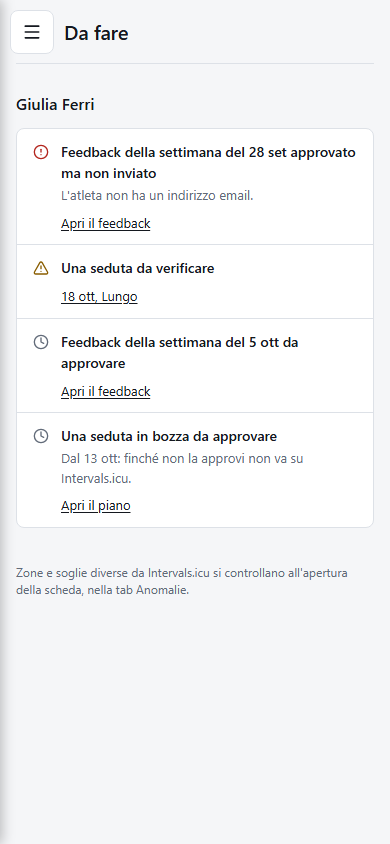
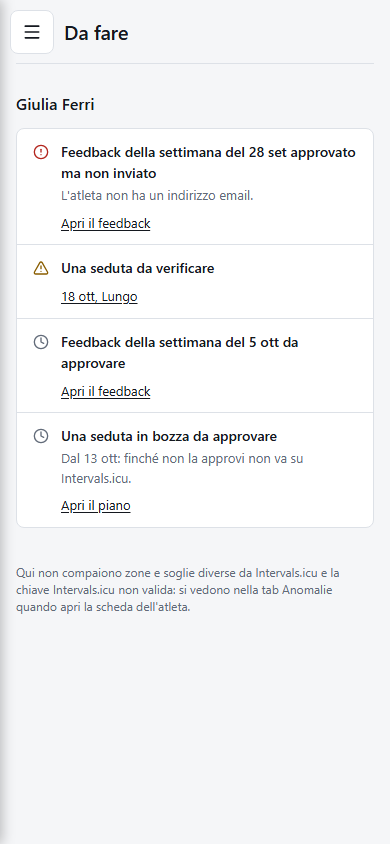
docs: sezioni sempre chiuse, «Da fare» in sidebar, scelte confermate dal coach

Changed region(s): [[0.0308, 0.6469, 0.8923, 0.7393]]

diff --git a/docs/design-ui.md b/docs/design-ui.md
@@ -78,7 +78,7 @@ Regole per chi modifica il layout:
 - **PageSection** (`PageSection.vue`, stato in `useSections`, decisione in [decisioni/0035](decisioni/0035-pagina-da-fare-sezioni-e-guida.md)): sezione comprimibile di una pagina lunga (Profilo, Impostazioni).
   - L'intestazione è un `<h3>` che contiene un pulsante (`aria-expanded`, `aria-controls`) con il caret, il titolo e, a sezione chiusa, una riga di riepilogo del contenuto in `--text-muted`, oppure in `--warning` se c'è qualcosa da sistemare.
   - A destra, se la sezione ha una guida, l'`IconButton` Info («Guida: …»).
-  - Il contenuto resta nel DOM anche chiuso (`v-show`). Le sezioni aperte si ricordano per la sessione del browser; una sezione con un errore si apre da sola.
+  - Il contenuto resta nel DOM anche chiuso (`v-show`). Arrivando sulla pagina, o cambiando atleta, le sezioni sono tutte chiuse (scelta del coach); si aprono a mano, da un link che porta a una sezione (`?sezione=`, indice, anomalie) o da sole quando contengono un errore.
 - **SectionNav** (`SectionNav.vue`): indice delle sezioni a destra della colonna, sticky, solo da 1360px. Un clic apre la sezione e la porta in vista. Sotto quella larghezza l'indice sono le intestazioni chiuse.
 - **GuidePanel** (`GuidePanel.vue`, testi in `help/fieldHelp.ts`, gruppi in `help/guide.ts`): la guida di un gruppo di dati, aperta dall'icona Info.
   - È un pannello a destra come quello della seduta, a tutto schermo su mobile, con una voce per campo: titolo, testo e approfondimento.
@@ -96,8 +96,8 @@ Regole per chi modifica il layout:
 ## Layout
 
 - **Desktop**: sidebar atleti a sinistra (260px, `flex-shrink: 0`, sticky), contenuto a destra (`.main`, `flex: 1`) in una colonna centrata di 680px massimi (`.form-wrap`). Lo scroll è quello della pagina: `.main` non ha `overflow`, così l'header sticky funziona.
-- **Sidebar**: "Nuovo atleta" in cima (pulsante tratteggiato in colore accento), poi gli atleti in ordine alfabetico. Ogni atleta è una riga resa come `<button>`:
-  - il nome, che va a capo invece di essere troncato, seguito dal numero di cose da fare in un tondo `--warning` (stesso stile del numero della tab Anomalie, `aria-label` «, N da fare»);
+- **Sidebar**: il marchio «PCoach» porta alla pagina iniziale; poi «Da fare» (la pagina iniziale, con il totale nello stesso tondo neutro), "Nuovo atleta" (pulsante tratteggiato in colore accento) e gli atleti in ordine alfabetico. Ogni atleta è una riga resa come `<button>`:
+  - il nome, che va a capo invece di essere troncato, seguito dal numero di cose da fare in un tondo neutro (`--surface-2`, bordo `--border-control`, `aria-label` «, N da fare»): il giallo resta solo per il numero delle anomalie;
   - sotto, su righe proprie, le discipline e l'ultimo TSB, così il TSB è sempre allineato a sinistra qualunque sia la lunghezza del nome.
 
   La riga aperta ha sfondo `--surface-2` e un filetto d'accento a sinistra (`aria-current`). Nell'elenco non ci sono azioni: l'eliminazione è solo in Profilo › Gestione scheda. Nel piede, sotto lo stato della connessione, «Versione X.Y.Z» in `--fs-xs` e `--text-muted`, link a Impostazioni › Informazioni ([decisioni/0036](decisioni/0036-versione-dell-app-e-rilasci.md)).
@@ -105,7 +105,7 @@ Regole per chi modifica il layout:
 - **Scheda atleta: tre viste** a tab (`role="tablist"`, frecce sinistra/destra per cambiare):
   - **Panoramica**: carico e forma, la settimana in corso in sola lettura (un clic su una seduta apre il suo pannello nel Piano) con «Apri il piano», feedback settimanale (vedi [sotto](#feedback-settimanale)). Se all'apertura della scheda c'è un feedback da approvare, il feedback è la prima sezione;
   - **Piano**: vedi [sotto](#tab-piano);
-  - **Profilo**: sezioni comprimibili (`PageSection`) per identità, Intervals.icu, discipline, soglie e zone, stato di allenamento, obiettivi, vincoli e disponibilità, metodologia, note, gestione scheda. Partono aperte Soglie e zone, Obiettivi e Vincoli; una bozza di nuovo atleta le apre tutte;
+  - **Profilo**: sezioni comprimibili (`PageSection`) per identità, Intervals.icu, discipline, soglie e zone, stato di allenamento, obiettivi, vincoli e disponibilità, metodologia, note, gestione scheda, tutte chiuse all'arrivo;
   - **Anomalie** (solo per una scheda salvata): vedi [sotto](#tab-anomalie). L'etichetta della tab porta il numero di anomalie in un tondo `--warning`.
 
   Si apre sulla Panoramica; una bozza di nuovo atleta si apre sul Profilo e il suo primo salvataggio non cambia vista.
@@ -116,7 +116,7 @@ Regole per chi modifica il layout:
 - **Pagina iniziale «Da fare»** (`TodoPage.vue`, [decisioni/0035](decisioni/0035-pagina-da-fare-sezioni-e-guida.md)):
   - una sezione per atleta, con il nome come link alla scheda, e un'unità con una riga per voce, come la tab Anomalie: icona (`CircleAlert` `--danger` per ciò che è fallito, `TriangleAlert` `--warning` per ciò che va sistemato, `Clock` `--text-muted` per ciò che aspetta un'approvazione), titolo, dettaglio e link al punto esatto;
   - gli atleti senza nulla da fare non compaiono; senza voci, «Niente da fare» con una frase su cosa compare qui;
-  - in fondo, una riga ricorda che zone e soglie si controllano nella scheda;
+  - in fondo, una riga dice cosa non vi compare (zone e soglie diverse da Intervals.icu, chiave non valida) e dove si vede (tab Anomalie della scheda);
   - senza atleti: «Nessun atleta» e come crearne uno.
 
 ### Tab Piano
@@ -254,16 +254,16 @@ Sezione della Panoramica (`WeeklyReviews.vue`):
 
 ## Impostazioni
 
-`SettingsPanel.vue`, sezioni comprimibili con indice e guida ([decisioni/0035](decisioni/0035-pagina-da-fare-sezioni-e-guida.md)):
-- **Claude e generazione** (aperta): chiave e modello, preferenze per generare il piano con «Ripristina le preferenze predefinite».
-- **Feedback settimanale** (aperta): ora del lunedì, fuso orario (un elenco dei fusi riconosciuti dal browser; un valore salvato non valido compare segnalato e il salvataggio è bloccato), invio via email, tono del feedback.
+`SettingsPanel.vue`, sezioni comprimibili con indice e guida, tutte chiuse all'arrivo ([decisioni/0035](decisioni/0035-pagina-da-fare-sezioni-e-guida.md)):
+- **Claude e generazione**: chiave e modello, preferenze per generare il piano con «Ripristina le preferenze predefinite».
+- **Feedback settimanale**: ora del lunedì, fuso orario (un elenco dei fusi riconosciuti dal browser; un valore salvato non valido compare segnalato e il salvataggio è bloccato), invio via email, tono del feedback.
 - **Avanzate**, un titolo `h2` in `--text-muted` con una riga sugli effetti, poi tre sezioni chiuse, il cui riepilogo dice «Valori predefiniti» o quanti valori sono personalizzati:
   - «Classificazione delle sedute»: soglie principali e, sotto «Qualità dei dati», le altre, con validazione per campo;
   - «Intensità per sistema di zone»: una tabella con una riga per sistema (3, 5, 7 zone) e le colonne «Bassa fino alla zona» e «Media fino alla zona»; ogni campo ha il nome dalla riga e dalla colonna;
   - «Modelli di zone»: per misura e sistema, un preset o limiti propri, con la fonte del preset. Salvare modelli cambiati chiede conferma, perché cambiano la durata stimata delle sedute a distanza per tutti gli atleti.
 
   Ogni sezione ha il suo «Ripristina…», che chiede conferma solo se ci sono valori personalizzati.
-- **Informazioni** (chiusa): versione, build e data, versione del server, «Copia per una segnalazione», novità della versione ([decisioni/0036](decisioni/0036-versione-dell-app-e-rilasci.md)).
+- **Informazioni**: versione, build e data, versione del server, «Copia per una segnalazione», novità della versione ([decisioni/0036](decisioni/0036-versione-dell-app-e-rilasci.md)).
 
 Nel Profilo, la sezione Metodologia ha lo schema di carico e scarico come due selettori («Settimane di carico» 1-8, «Settimane di scarico» 1-4; un valore salvato non riconosciuto è segnalato) e i tre campi della progressione del carico.
 

diff --git a/docs/decisioni/0035-pagina-da-fare-sezioni-e-guida.md b/docs/decisioni/0035-pagina-da-fare-sezioni-e-guida.md
@@ -22,9 +22,9 @@ Decisioni del coach del 13 ottobre 2026: D-01, D-02, D-03 e D-04, dettagliate ne
    - le sedute da verificare e gli invii non riusciti;
    - le bozze delle prossime due settimane.
    
-   Ogni voce porta al punto esatto (`?feedback=`, `?sezione=`, `?seduta=`, `?settimana=`). Accanto a ogni atleta, nella barra laterale, il numero di cose da fare. Zone e soglie diverse da Intervals.icu restano nella tab Anomalie: richiedono una lettura da Intervals.icu per atleta.
-2. **Sezioni comprimibili con riepilogo** (D-02). Ogni sezione di Profilo e Impostazioni ha un'intestazione che apre e chiude; chiusa, mostra una riga di riepilogo. Sugli schermi larghi c'è un indice a destra. Le sezioni aperte si ricordano per la sessione del browser.
-   - Nel Profilo partono aperte Soglie e zone, Obiettivi, Vincoli e disponibilità; una bozza si apre tutta.
+   Ogni voce porta al punto esatto (`?feedback=`, `?sezione=`, `?seduta=`, `?settimana=`). Nella barra laterale la voce «Da fare» (anche il marchio PCoach) riporta alla pagina, con il totale; accanto a ogni atleta il suo numero. I numeri sono neutri, non gialli: il giallo resta per le anomalie (richiesta del coach, che li confondeva). Zone e soglie diverse da Intervals.icu restano nella tab Anomalie: richiedono una lettura da Intervals.icu per atleta.
+2. **Sezioni comprimibili con riepilogo** (D-02). Ogni sezione di Profilo e Impostazioni ha un'intestazione che apre e chiude; chiusa, mostra una riga di riepilogo. Sugli schermi larghi c'è un indice a destra.
+   - Arrivando sulla pagina, anche per una bozza e cambiando atleta, le sezioni sono **tutte chiuse** (decisione del coach); nessuna memoria fra una visita e l'altra.
    - Le Impostazioni hanno due gruppi d'uso comune (Claude e generazione, Feedback settimanale), poi «Avanzate» (classificazione, intensità, modelli di zone), poi Informazioni.
    - Una sezione con un errore si apre da sola.
 3. **Guida per gruppo** (D-04, sul modello di Garmin Connect). Sotto i campi non c'è testo d'aiuto: l'icona Info della sezione apre un pannello con una voce per campo. Il pannello sta nell'URL (`?guida=`) e «indietro» lo chiude senza perdere le modifiche. Nel pannello della seduta, dove un secondo livello sarebbe di troppo, un'icona Info apre il testo sotto il campo.
@@ -32,16 +32,15 @@ Decisioni del coach del 13 ottobre 2026: D-01, D-02, D-03 e D-04, dettagliate ne
    - **Le conseguenze che bloccano qualcosa** compaiono quando servono: come conferma prima dell'azione (cambio del sistema di zone con un piano in corso, salvataggio dei modelli di zone) o come anomalia finché il problema esiste.
 4. **Glossario degli stati** (D-03), in `domain/workoutState.ts`: «Bozza», «Da verificare», «Da approvare» (feedback), «Versione N». Nelle righe delle sedute restano solo gli stati da sistemare e quello d'esecuzione. Lo storico filtra con un selettore raggruppato per asse al posto dei chip, come richiesto dal coach («non troppi chip»).
 
+Confermate dal coach: le due settimane delle bozze, l'indice solo da 1360 px, la Panoramica che parte dal feedback quando ce n'è uno da approvare.
+
 Scelte dell'assistente, da confermare:
-- le sezioni aperte di default;
-- le due settimane delle bozze;
-- l'indice solo da 1360 px;
 - il numero in sidebar che conta una per una le sedute raggruppate, come la tab Anomalie;
-- la Panoramica che parte dal feedback quando ce n'è uno da approvare, deciso all'apertura della scheda.
+- l'apertura automatica di una sezione con un errore, anche con le sezioni sempre chiuse.
 
 ## Conseguenze
 
 - Componenti nuovi in `components/ui/`: `PageSection`, `SectionNav`, `GuidePanel`, `InfoToggle`. `FieldHelp.vue` è rimosso. Le guide sono in `help/guide.ts`.
 - `fieldHelp.test.ts` verifica che ogni testo sia in una guida e che le etichette citate fra «» esistano nell'interfaccia.
-- `useSections` usa `sessionStorage` solo come comodità: senza, valgono le sezioni predefinite.
+- `useSections` non ricorda nulla: lo stato delle sezioni vive finché si resta sulla pagina.
 - `stores/todo.ts` legge sedute, invii e feedback di tutti gli atleti a ogni cambio di pagina: tre query leggere, adatte al numero di atleti attuale.

diff --git a/docs/audit/2026-10-ux-ui-completo/README.md b/docs/audit/2026-10-ux-ui-completo/README.md
@@ -259,28 +259,21 @@ Documenti: ADR [0034](../../decisioni/0034-anomalie-in-un-elenco-ed-email-dell-a
 
 | Pagina | Prima | Dopo |
 |---|---|---|
-| Impostazioni a 1440 px | 2,2 schermi, 4,6 con le sezioni aperte; 74 campi visibili; ≈4.000 caratteri d'aiuto | 1,4 schermi; 7 campi visibili; ≈150 caratteri |
-| Impostazioni a 390 px | 2,8 / 6,8 schermi | 1,7 schermi |
-| Profilo a 1440 px | 6,7 schermi; 91 campi; ≈7.500 caratteri d'aiuto | 3,7 schermi con le tre sezioni aperte di default; 55 campi visibili; nessun testo d'aiuto sotto i campi |
-| Profilo a 390 / 320 px | 10,6 / 14,1 schermi | 5,9 / 7,8 schermi |
+| Impostazioni a 1440 / 390 px | 2,2 / 2,8 schermi, 4,6 / 6,8 con le sezioni aperte; 74 campi visibili; ≈4.000 caratteri d'aiuto | 1 schermo con le sezioni chiuse |
+| Profilo a 1440 px | 6,7 schermi; 91 campi; ≈7.500 caratteri d'aiuto | 1,2 schermi con le sezioni chiuse; nessun testo d'aiuto sotto i campi |
+| Profilo a 390 px | 10,6 schermi | 1,3 schermi |
 | Schede a 320 px | scorrimento orizzontale | nessuno |
 | Testi sotto i 12 px | 7 (grafico) | 0 |
 
 Rispetto ai criteri del §8:
 - **Impostazioni** ≤ 1,5 schermi: rispettato.
 - **Testo d'aiuto visibile** ridotto di almeno la metà: rispettato.
-- **Profilo** ≤ 2,5 schermi: non rispettato con le tre sezioni aperte di default (3,7). Si rispetterebbe chiudendone una o tutte, ma le sezioni aperte di default sono una scelta da confermare.
+- **Profilo** ≤ 2,5 schermi: rispettato (1,2), con le sezioni tutte chiuse come deciso dal coach.
 - **Feedback da approvare** a un clic dalla home e primo contenuto della Panoramica: rispettato (e2e).
 - **Glossario** senza etichette duplicate: rispettato (test).
 - **Storico**: al massimo 2 righe di filtri, sostituiti da un selettore.
 
-**Scelte mie, da confermare** (sono elencate anche nelle ADR 0034-0036):
-- sezioni aperte di default nel Profilo (Soglie e zone, Obiettivi, Vincoli) e nelle Impostazioni (Claude, Feedback);
-- bozze delle prossime due settimane nella home;
-- indice delle sezioni solo da 1360 px;
-- Panoramica che parte dal feedback, deciso all'apertura della scheda;
-- versione del server letta da `weekly-feedback`;
-- data della 1.0.0 al 13 ottobre.
+**Risposte del coach sulle scelte dell'assistente** (13 ottobre): sezioni sempre tutte chiuse; confermate le bozze delle prossime due settimane, l'indice da 1360 px, la Panoramica che parte dal feedback, la data della 1.0.0 e la versione del server da `weekly-feedback`. Su sua richiesta: voce «Da fare» nella barra laterale per tornare alla home, numeri in un tondo neutro per non confonderli con il giallo delle anomalie, nota della home riscritta (commit `72ba036`).
 
 **Non fatto o ancora aperto**:
 - **Pubblicazione**: serve la tua conferma. Nell'ordine:

diff --git a/CHANGELOG.md b/CHANGELOG.md
@@ -17,8 +17,8 @@ Ordine: più recente in cima. Versioni con [Semantic Versioning](https://semver.
 Prima versione numerata: corrisponde al commit con cui viene pubblicata e comprende tutto ciò che è elencato sotto «Prima del versionamento». Le voci di questa sezione sono l'audit UI/UX completo di ottobre 2026 ([docs/audit/2026-10-ux-ui-completo](docs/audit/2026-10-ux-ui-completo/README.md)).
 
 ### Aggiunto
-- Pagina iniziale «Da fare»: per ogni atleta feedback da approvare o fermi, email e soglie mancanti, sedute da verificare, invii non riusciti e bozze delle prossime due settimane, con il link al punto esatto; il numero compare accanto all'atleta nella barra laterale — prima bisognava aprire ogni atleta — docs: design-ui, decisioni/0035.
-- Profilo e Impostazioni a sezioni comprimibili con riepilogo e indice; nelle Impostazioni i parametri che cambiano i calcoli per tutti gli atleti sono in «Avanzate» — pagine lunghe fino a 14 schermi su telefono — docs: design-ui, decisioni/0035.
+- Pagina iniziale «Da fare»: per ogni atleta feedback da approvare o fermi, email e soglie mancanti, sedute da verificare, invii non riusciti e bozze delle prossime due settimane, con il link al punto esatto; si torna alla pagina dalla voce «Da fare» in cima alla barra laterale, con il totale; accanto a ogni atleta il suo numero, in un tondo neutro per non confonderlo con le anomalie — prima bisognava aprire ogni atleta — docs: design-ui, decisioni/0035.
+- Profilo e Impostazioni a sezioni comprimibili con riepilogo e indice, tutte chiuse all'arrivo; nelle Impostazioni i parametri che cambiano i calcoli per tutti gli atleti sono in «Avanzate» — pagine lunghe fino a 14 schermi su telefono — docs: design-ui, decisioni/0035.
 - Guida per ogni gruppo di dati, aperta dall'icona Info: i testi d'aiuto non stanno più sotto i campi — decisione del coach, sul modello di Garmin Connect — docs: design-ui, decisioni/0035.
 - Versione dell'app in fondo alla barra laterale e in Impostazioni › Informazioni, con build, versione del server, novità e «Copia per una segnalazione» — la versione non era identificabile — docs: sviluppo-deploy, design-ui, decisioni/0036.
 - Anomalia «Manca l'email dell'atleta» quando l'invio via email è attivo; la scheda si salva anche senza — decisione del coach — docs: design-ui, decisioni/0034.

diff --git a/docs/decisioni/0036-versione-dell-app-e-rilasci.md b/docs/decisioni/0036-versione-dell-app-e-rilasci.md
@@ -35,11 +35,7 @@ Analisi nel [report 07 dell'audit](../audit/2026-10-ux-ui-completo/07-versioname
    - un test verifica che esistano `Unreleased` e la sezione datata della versione corrente.
 6. **Rilascio**: il workflow esegue i test a ogni push su `main` e pubblica solo dai tag `v*`. Prima controlla che il tag corrisponda a `package.json`; dopo il deploy verifica che `version.json` in linea sia la versione del tag. Procedura in [sviluppo-deploy.md § Rilascio](../sviluppo-deploy.md#rilascio-di-una-versione).
 
-Scelte dell'assistente, da confermare:
-- data della 1.0.0 al 13 ottobre 2026, da aggiornare se il rilascio avviene un altro giorno;
-- versione del server letta da `weekly-feedback`;
-- `-modificato` come suffisso;
-- la sezione Informazioni chiusa di default.
+Confermate dal coach: data della 1.0.0 al 13 ottobre 2026, versione del server letta da `weekly-feedback`. Scelta dell'assistente, da confermare: `-modificato` come suffisso.
 
 ## Conseguenze
 
